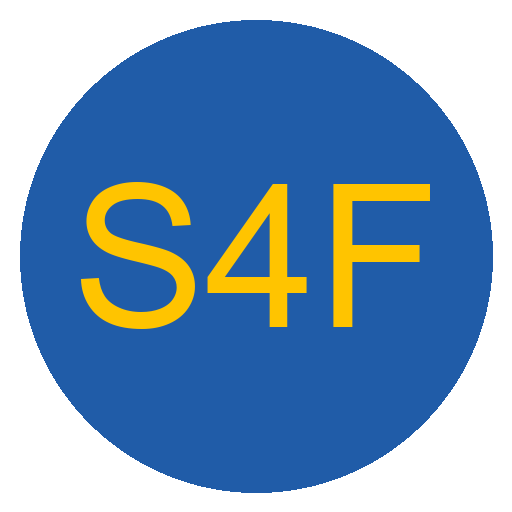
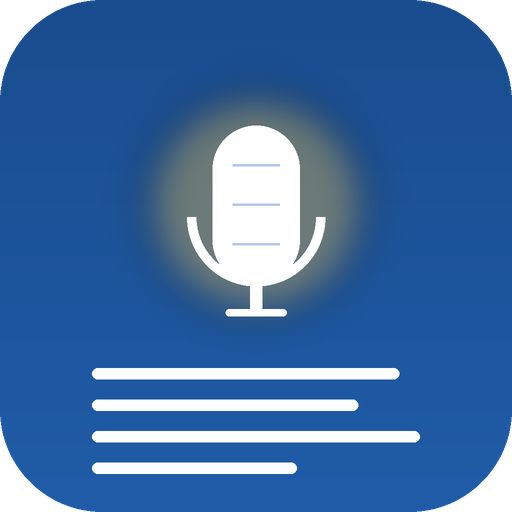
v0.4.2: lepší ikona aplikace — mikrofon + textové řádky
Nahrazuje placeholder "S4F" v modrém kruhu skutečným designem:
- Rounded square pozadí (macOS/iOS konvence), gradient #1a4d8f → #205ca8
- Bílý stylizovaný mikrofon nahoře s decentními horizontálními
  detaily (mřížka) a podstavcem U-tvaru
- Měkká zlatá záře kolem mikrofonu (Safe4Future second color)
- 4 horizontální bílé čárky pod ním (různé délky) — vizuální
  metafora přepisu / textových řádků

Vizuální story: "hlas svítí → text padá dolů". Pro koncového uživatele
okamžitě čitelné, co aplikace dělá, i v 16×16 rozlišení.

Generování:
- generate_icon.py přepsán z monogramového designu na vector-like
  kompozici v Pillow
- PNG 512×512 (UI, tray)
- ICO 16/32/48/64/128/256 (Windows multi-size)
- ICNS až 1024×1024 (macOS, přes iconutil)
- High-res zdroj 1024×1024 s downscale (LANCZOS) pro ostré detaily

diff --git a/scripts/generate_icon.py b/scripts/generate_icon.py
@@ -1,16 +1,22 @@
-"""Vygeneruje placeholder ikonu pro instalátor a aplikaci.
+"""Vygeneruje ikonu aplikace Hlas do textu.
 
-Spouští se v CI nebo lokálně před PyInstaller buildem, pokud `icon.ico` chybí.
-Vytvoří jednoduchý kruhový design s textem "S4F" (Safe4Future).
+Design: rounded-square pozadí (macOS/iOS konvence), gradient modrá #1a4d8f → #205ca8,
+bílý stylizovaný mikrofon nahoře a tři textové řádky dole — vizuální metafora
+"hlas → text". Akcent v zlaté Safe4Future barvě jako záři kolem mikrofonu.
 
-Závislost: Pillow (přichází jako transitive dep PySide6 / huggingface_hub).
+Generuje:
+- icon.png  512×512 (zdroj pro UI)
+- icon.ico  multi-size 16/32/48/64/128/256 (Windows)
+- icon.icns multi-size až 1024 (macOS, jen na macOS přes iconutil)
+
+Závislost: Pillow (transitive dep PySide6).
 """
 
 from __future__ import annotations
 
 from pathlib import Path
 
-from PIL import Image, ImageDraw, ImageFont
+from PIL import Image, ImageDraw, ImageFilter
 
 ROOT = Path(__file__).resolve().parent.parent
 RESOURCES = ROOT / "app" / "resources"
@@ -18,72 +24,196 @@ PNG_PATH = RESOURCES / "icon.png"
 ICO_PATH = RESOURCES / "icon.ico"
 ICNS_PATH = RESOURCES / "icon.icns"
 
+# Barvy
+BG_TOP = (26, 77, 143, 255)        # #1a4d8f — tmavší modrá nahoře
+BG_BOTTOM = (32, 92, 168, 255)     # #205ca8 — světlejší modrá dole (S4F accent)
+WHITE = (255, 255, 255, 255)
+GLOW = (255, 196, 60, 90)          # zlatá záře (Safe4Future second color), poloprůhledná
+
 
 def main() -> int:
-    import platform as _plat
-
     RESOURCES.mkdir(parents=True, exist_ok=True)
 
-    # Na macOS musí být i .icns; na Windows stačí .ico
-    needs_icns = _plat.system() == "Darwin"
-    all_present = ICO_PATH.is_file() and PNG_PATH.is_file()
-    if needs_icns:
-        all_present = all_present and ICNS_PATH.is_file()
-    if all_present:
-        print(f"Ikony existují: PNG, ICO{', ICNS' if needs_icns else ''}")
-        return 0
+    size = 1024  # generujeme ve vysokém rozlišení, downscale do PNG/ICO/ICNS
+    img = _render_icon(size)
 
-    size = 512
-    img = Image.new("RGBA", (size, size), (0, 0, 0, 0))
-    draw = ImageDraw.Draw(img)
-
-    # Pozadí — kulatý gradient (zjednodušený jako plný kruh s outline)
-    bg_color = (32, 92, 168, 255)         # S4F modrá
-    accent = (255, 196, 0, 255)           # zlatá
-    margin = 20
-    draw.ellipse((margin, margin, size - margin, size - margin), fill=bg_color)
-
-    # Textový monogram
-    try:
-        font = ImageFont.truetype("Arial.ttf", 200)
-    except OSError:
-        try:
-            font = ImageFont.truetype("/System/Library/Fonts/Supplemental/Arial.ttf", 200)
-        except OSError:
-            font = ImageFont.load_default()
-
-    text = "S4F"
-    bbox = draw.textbbox((0, 0), text, font=font)
-    text_w = bbox[2] - bbox[0]
-    text_h = bbox[3] - bbox[1]
-    tx = (size - text_w) // 2 - bbox[0]
-    ty = (size - text_h) // 2 - bbox[1]
-    draw.text((tx, ty), text, fill=accent, font=font)
-
-    img.save(PNG_PATH, format="PNG")
+    # 512×512 PNG pro UI a tray
+    img.resize((512, 512), Image.Resampling.LANCZOS).save(PNG_PATH, format="PNG")
     print(f"Vytvořeno: {PNG_PATH}")
 
-    # ICO obsahuje více velikostí pro Windows
-    sizes = [(16, 16), (32, 32), (48, 48), (64, 64), (128, 128), (256, 256)]
-    img.save(ICO_PATH, format="ICO", sizes=sizes)
+    # ICO multi-size pro Windows
+    ico_sizes = [(16, 16), (32, 32), (48, 48), (64, 64), (128, 128), (256, 256)]
+    img.save(ICO_PATH, format="ICO", sizes=ico_sizes)
     print(f"Vytvořeno: {ICO_PATH}")
 
-    # ICNS pro macOS — vyžaduje iconutil (built-in macOS) nebo PNG fallback
-    icns_path = RESOURCES / "icon.icns"
-    _make_icns(img, icns_path)
+    # ICNS pro macOS (vyžaduje iconutil)
+    _make_icns(img, ICNS_PATH)
     return 0
 
 
+def _render_icon(size: int) -> Image.Image:
+    """Vyrobí PIL Image se zdrojovou ikonou v daném rozlišení."""
+    img = Image.new("RGBA", (size, size), (0, 0, 0, 0))
+
+    # 1) Rounded square pozadí s gradientem
+    bg = _gradient_rounded_square(size, BG_TOP, BG_BOTTOM, corner_radius=size // 5)
+    img = Image.alpha_composite(img, bg)
+
+    # 2) Zlatá záře okolo mikrofonu (efekt "hlas svítí")
+    glow_layer = Image.new("RGBA", (size, size), (0, 0, 0, 0))
+    glow_draw = ImageDraw.Draw(glow_layer)
+    cx, cy = size // 2, int(size * 0.40)
+    glow_r = int(size * 0.22)
+    glow_draw.ellipse(
+        (cx - glow_r, cy - glow_r, cx + glow_r, cy + glow_r), fill=GLOW
+    )
+    glow_layer = glow_layer.filter(ImageFilter.GaussianBlur(radius=size // 25))
+    img = Image.alpha_composite(img, glow_layer)
+
+    # 3) Mikrofon (bílý) — capsule body + stojánek + base
+    draw = ImageDraw.Draw(img)
+    _draw_microphone(draw, size, cx, cy)
+
+    # 4) Textové řádky pod mikrofonem
+    _draw_text_lines(draw, size)
+
+    return img
+
+
+def _gradient_rounded_square(
+    size: int,
+    top_color: tuple[int, int, int, int],
+    bottom_color: tuple[int, int, int, int],
+    corner_radius: int,
+) -> Image.Image:
+    """Rounded square s vertikálním gradientem."""
+    # Vyrobíme gradient v plné velikosti
+    gradient = Image.new("RGBA", (size, size), (0, 0, 0, 0))
+    gradient_pixels = gradient.load()
+    for y in range(size):
+        t = y / max(size - 1, 1)
+        r = int(top_color[0] + (bottom_color[0] - top_color[0]) * t)
+        g = int(top_color[1] + (bottom_color[1] - top_color[1]) * t)
+        b = int(top_color[2] + (bottom_color[2] - top_color[2]) * t)
+        a = int(top_color[3] + (bottom_color[3] - top_color[3]) * t)
+        for x in range(size):
+            gradient_pixels[x, y] = (r, g, b, a)
+
+    # Mask: rounded rectangle
+    mask = Image.new("L", (size, size), 0)
+    mask_draw = ImageDraw.Draw(mask)
+    mask_draw.rounded_rectangle(
+        (0, 0, size - 1, size - 1), radius=corner_radius, fill=255
+    )
+
+    out = Image.new("RGBA", (size, size), (0, 0, 0, 0))
+    out.paste(gradient, (0, 0), mask)
+    return out
+
+
+def _draw_microphone(draw: ImageDraw.ImageDraw, size: int, cx: int, cy: int) -> None:
+    """Stylizovaný mikrofon: capsule body + spodní oblouk (stand) + nožka + base.
+
+    cx, cy: střed capsule body.
+    Rozměry jsou relativní k `size`, aby mikrofon dobře vypadal v 16×16 i 1024.
+    """
+    # Capsule body
+    body_half_w = int(size * 0.085)   # poloviční šířka
+    body_half_h = int(size * 0.155)   # poloviční výška
+    body_box = (
+        cx - body_half_w,
+        cy - body_half_h,
+        cx + body_half_w,
+        cy + body_half_h,
+    )
+    draw.rounded_rectangle(body_box, radius=body_half_w, fill=WHITE)
+
+    # Detail: 3 horizontální linky uvnitř capsule (přidá "mikrofon mřížku")
+    detail_color = (180, 200, 230, 255)  # mírně modřejší než bílá pro kontrast
+    line_w = int(size * 0.005)
+    spacing = body_half_h // 2
+    for i in range(-1, 2):
+        y = cy + i * spacing
+        x1 = cx - int(body_half_w * 0.55)
+        x2 = cx + int(body_half_w * 0.55)
+        draw.line([(x1, y), (x2, y)], fill=detail_color, width=max(line_w, 2))
+
+    # Stojánek — oblouk (U-tvar) pod capsule
+    arc_outer_r = int(size * 0.135)
+    arc_inner_r = int(size * 0.105)
+    arc_cy = cy + int(size * 0.025)  # střed oblouku trochu níž než capsule
+    arc_box_outer = (
+        cx - arc_outer_r,
+        arc_cy - arc_outer_r,
+        cx + arc_outer_r,
+        arc_cy + arc_outer_r,
+    )
+    # Outer arc — vyhneme se inner arc (čistý U-tvar drží mikrofonní siluetu)
+    _ = arc_inner_r  # ponecháno pro budoucí variantu s inner ringem
+    draw.arc(arc_box_outer, start=0, end=180, fill=WHITE, width=max(int(size * 0.018), 3))
+    # Pro lepší tloušťku přidáme druhý arc o pixel jinde
+    draw.arc(
+        (arc_box_outer[0] + 1, arc_box_outer[1] + 1, arc_box_outer[2] - 1, arc_box_outer[3] - 1),
+        start=0, end=180, fill=WHITE, width=max(int(size * 0.018), 3),
+    )
+
+    # Nožka (vertikální tyč pod arc)
+    leg_top = arc_cy + arc_outer_r - int(size * 0.005)
+    leg_bottom = leg_top + int(size * 0.05)
+    leg_half_w = max(int(size * 0.012), 2)
+    draw.rectangle(
+        (cx - leg_half_w, leg_top, cx + leg_half_w, leg_bottom),
+        fill=WHITE,
+    )
+
+    # Base (horizontální podstavec)
+    base_half_w = int(size * 0.06)
+    base_y = leg_bottom
+    base_h = max(int(size * 0.014), 2)
+    draw.rounded_rectangle(
+        (cx - base_half_w, base_y, cx + base_half_w, base_y + base_h),
+        radius=base_h // 2,
+        fill=WHITE,
+    )
+
+
+def _draw_text_lines(draw: ImageDraw.ImageDraw, size: int) -> None:
+    """Čtyři horizontální čárky reprezentující přepis."""
+    # Hodně transparentní bílé (aby se mikrofon stále tlačil do popředí)
+    line_color = (255, 255, 255, 220)
+
+    base_y = int(size * 0.73)
+    spacing = int(size * 0.062)
+    line_thickness = max(int(size * 0.022), 4)
+
+    # 4 řádky s různými délkami, leftmost-align s lehce variabilním offsetem
+    rows = [
+        (0.18, 0.78),   # plný řádek (start_x_ratio, end_x_ratio)
+        (0.18, 0.70),
+        (0.18, 0.82),
+        (0.18, 0.58),   # poslední, nejkratší (jako konec odstavce)
+    ]
+    for i, (sx, ex) in enumerate(rows):
+        y = base_y + i * spacing
+        x1 = int(size * sx)
+        x2 = int(size * ex)
+        draw.rounded_rectangle(
+            (x1, y - line_thickness // 2, x2, y + line_thickness // 2),
+            radius=line_thickness // 2,
+            fill=line_color,
+        )
+
+
 def _make_icns(img: Image.Image, out_path: Path) -> None:
-    """Vyrobí .icns pomocí macOS iconutil. Mimo macOS jen nahraje PNG jako fallback."""
+    """Vyrobí .icns pomocí macOS iconutil. Mimo macOS přeskočí."""
     import platform as _plat
+    import shutil
     import subprocess
 
     if _plat.system() != "Darwin":
         print(f"Přeskočeno (.icns): běžíme na {_plat.system()}, ne macOS")
         return
 
-    # macOS .iconset structure
     sizes_iconset = [
         ("icon_16x16.png", 16),
         ("[email redacted]", 32),
@@ -99,8 +229,10 @@ def _make_icns(img: Image.Image, out_path: Path) -> None:
     iconset_dir = out_path.parent / "icon.iconset"
     iconset_dir.mkdir(parents=True, exist_ok=True)
     try:
-        for name, size in sizes_iconset:
-            img.resize((size, size), Image.Resampling.LANCZOS).save(iconset_dir / name, "PNG")
+        for name, target_size in sizes_iconset:
+            img.resize((target_size, target_size), Image.Resampling.LANCZOS).save(
+                iconset_dir / name, "PNG"
+            )
         subprocess.run(
             ["iconutil", "-c", "icns", str(iconset_dir), "-o", str(out_path)],
             check=True,
@@ -109,8 +241,6 @@ def _make_icns(img: Image.Image, out_path: Path) -> None:
     except (subprocess.CalledProcessError, FileNotFoundError) as exc:
         print(f"iconutil selhalo: {exc}")
     finally:
-        import shutil
-
         shutil.rmtree(iconset_dir, ignore_errors=True)
 
 

diff --git a/app/__init__.py b/app/__init__.py
@@ -1,4 +1,4 @@
 """Hlas do textu — desktop aplikace pro přepis přednášek a generování studijních bodů."""
 
-__version__ = "0.4.1"
+__version__ = "0.4.2"
 __app_name__ = "HlasDoTextu"